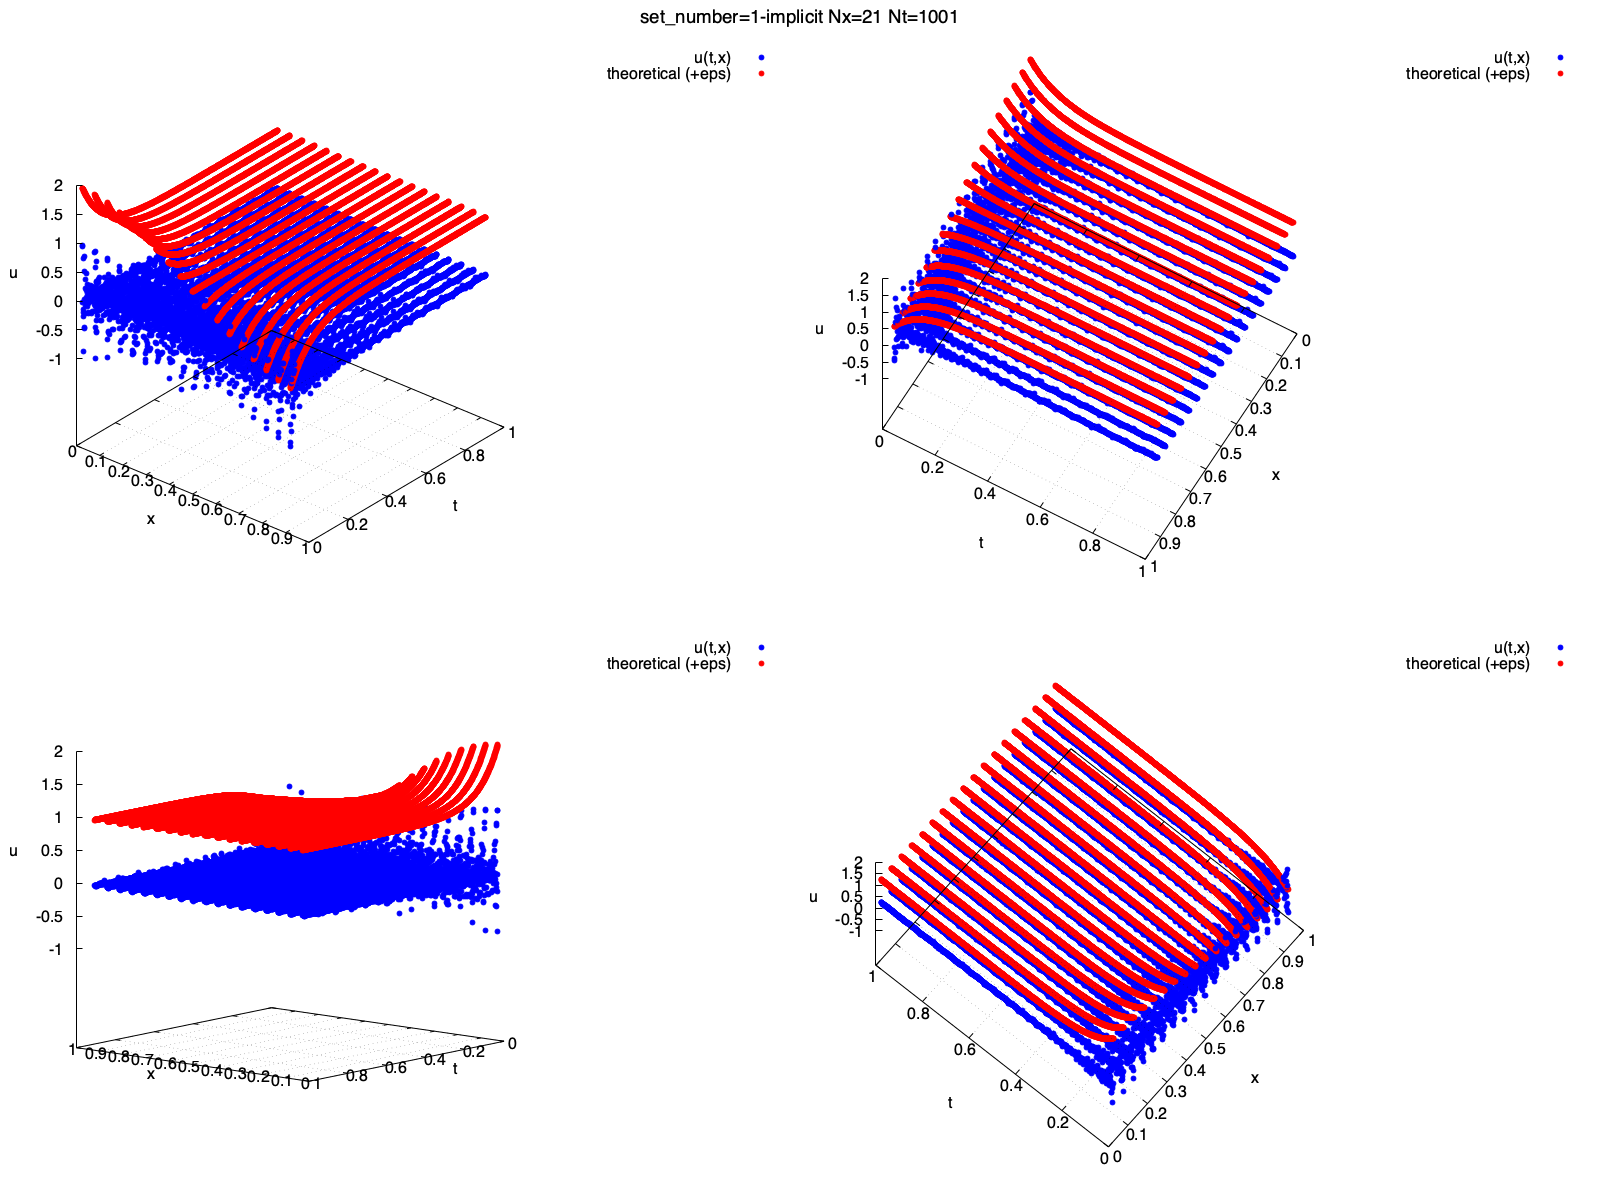
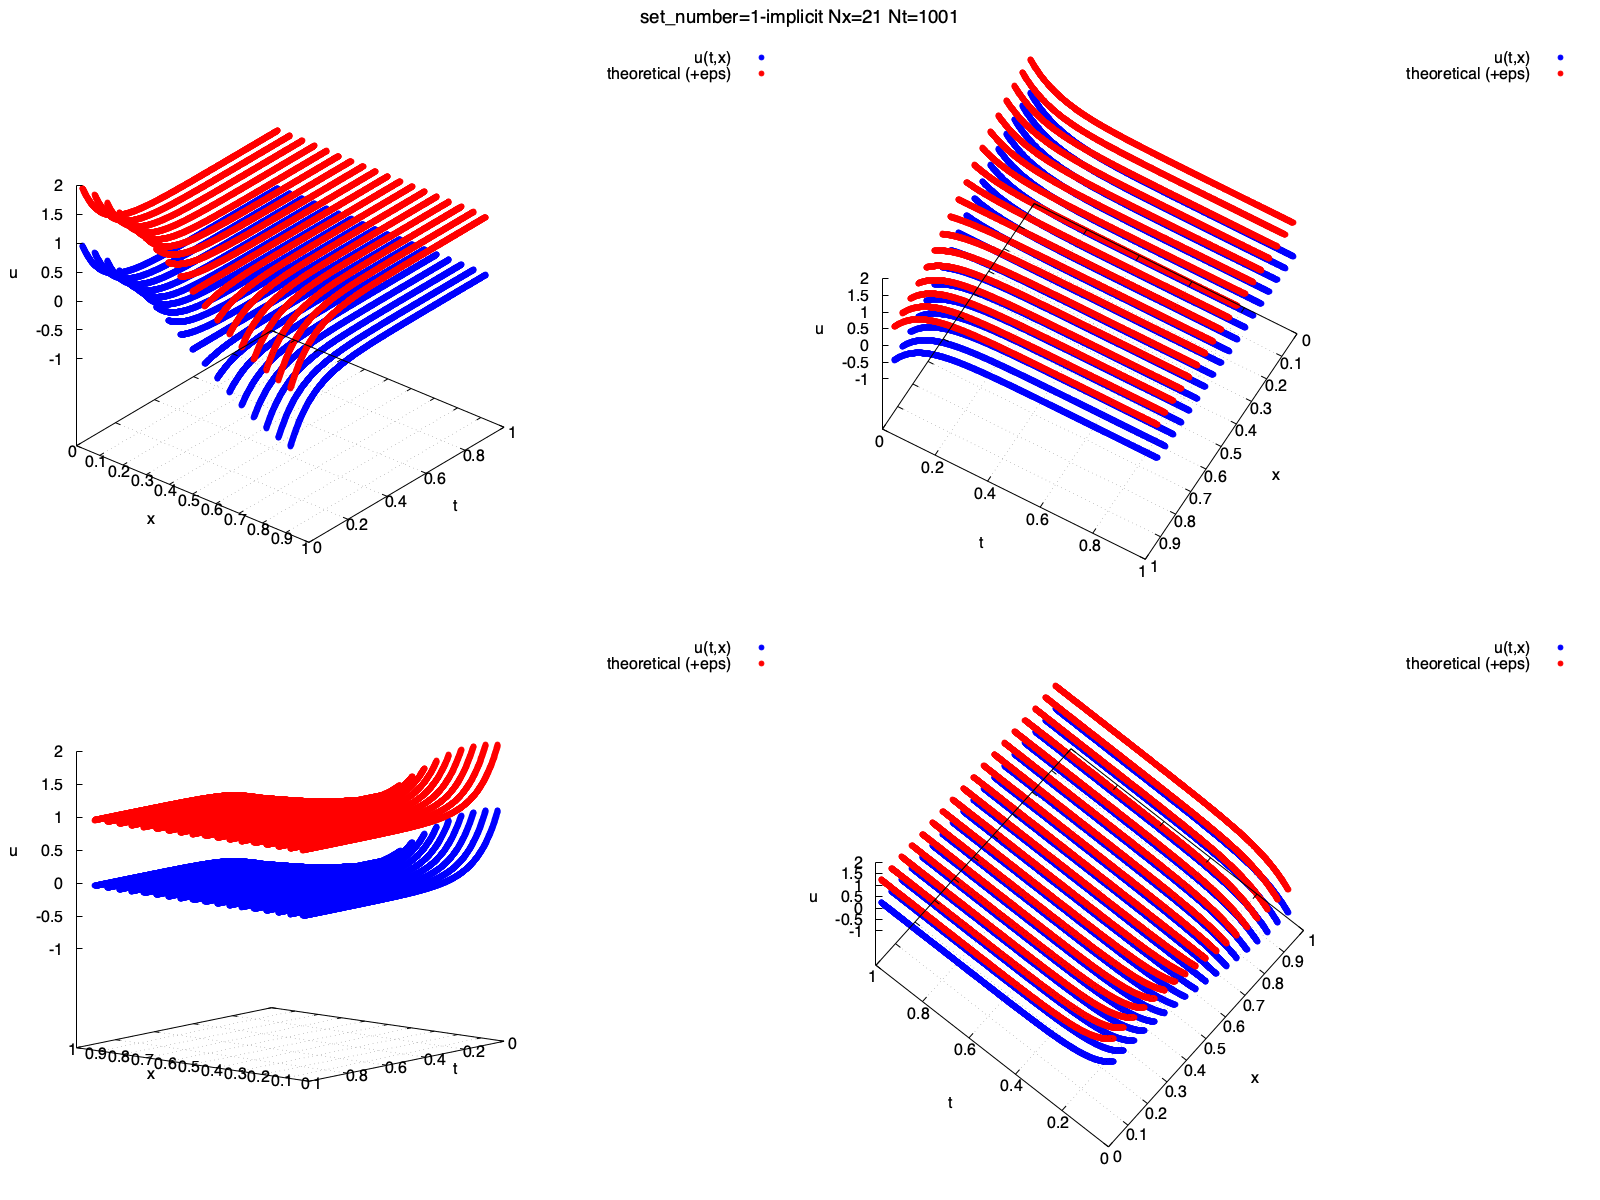
Наконец работает

diff --git a/task_7_files/task_7.c b/task_7_files/task_7.c
@@ -79,40 +79,44 @@ int main(int argc, char *argv[]) {
     } 
     else {
         N = number_of_points_x-2;
-        // Неявная схема: (U^{n+1} - U^n)/tau = U_xx^{n+1} + p^{n+1} U^{n+1} + f^{n+1}
         r = tau/(h*h);
         a = (double*)malloc((N-1) * sizeof(double));
         b = (double*)malloc(N * sizeof(double));
         c = (double*)malloc((N-1) * sizeof(double));
         d = (double*)malloc(N * sizeof(double));
-        u = (double*)malloc(N * number_of_points_t * sizeof(double));
-        for (int i = 0; i < N; i++) {
+        u = (double*)malloc(number_of_points_x * number_of_points_t * sizeof(double));
+        for (int i = 0; i < number_of_points_x; i++) {
             u[i] = initial[i];
         }
 
         for (int j = 1; j < number_of_points_t; j++) {
             double t_next = j * tau;
 
-            // Левая граница
-            b[0] = 1.0 + 2.0 * r - tau * p_func(t_next, h/2);
-            c[0] = -2.0 * r;
-            d[0] = u[(j-1)*N] + tau * f_func(t_next, h/2);
+            // Левая граница (Нейман: u_x=0 -> ghost u_{-1}=u_{1})
+            b[0] = 1.0 + r - tau * p_func(t_next, h/2);
+            c[0] = -r;
+            d[0] = u[(j-1)*number_of_points_x+1] + tau * f_func(t_next, h/2);
 
             // Внутренние узлы
             for (int i = 1; i < N-1; i++) {
                 a[i-1] = -r;
-                b[i] = 1.0 + 2.0 * r - tau * p_func(t_next, i * h);
+                b[i] = 1.0 + 2.0 * r - tau * p_func(t_next, i * h+h/2);
                 c[i] = -r;
-                d[i] = u[(j-1)*N + i] + tau * f_func(t_next, i * h);
+                d[i] = u[(j-1)*number_of_points_x + 1 + i] + tau * f_func(t_next, i * h+h/2);
             }
 
-            // Правая граница
-            a[N-1] = -2.0 * r;
-            b[N-1] = 1.0 + 2.0 * r - tau * p_func(t_next, 1.0);
-            d[N-1] = u[(j-1)*N + N-1] + tau * f_func(t_next, 1.0);
+            // Правая граница (Нейман: u_N = u_{N-2})
+            a[N-2] = -r;
+            b[N-1] = 1.0 + r - tau * p_func(t_next, 1.0-h/2);
+            d[N-1] = u[(j-1)*number_of_points_x + N] + tau * f_func(t_next, 1.0 - h/2);
+
+
 
             // Решаем трёхдиагональную систему
             progonka(a, b, c, N, d, &u[j*number_of_points_x+1]);
+            u[j*number_of_points_x] = u[j*number_of_points_x + 1];
+            u[j*number_of_points_x + number_of_points_x - 1] = u[j*number_of_points_x + number_of_points_x - 2];
+
         }
 
         free(a); free(b); free(c); free(d);
